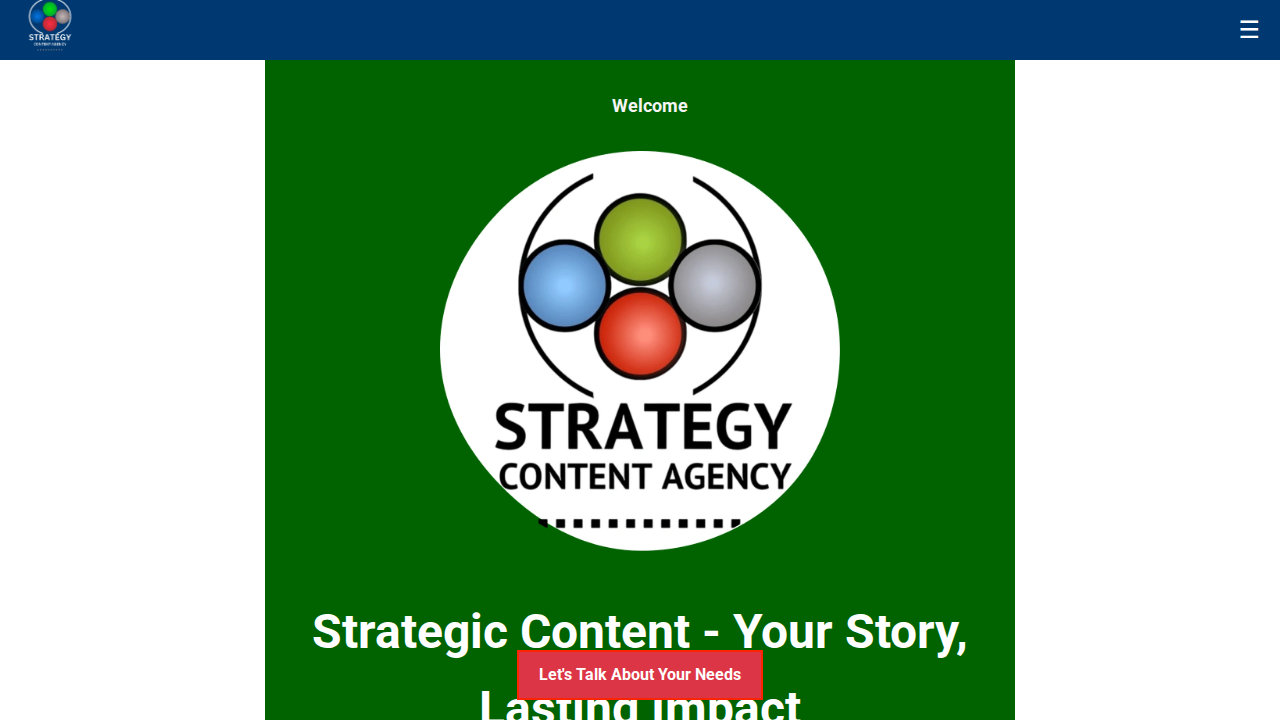
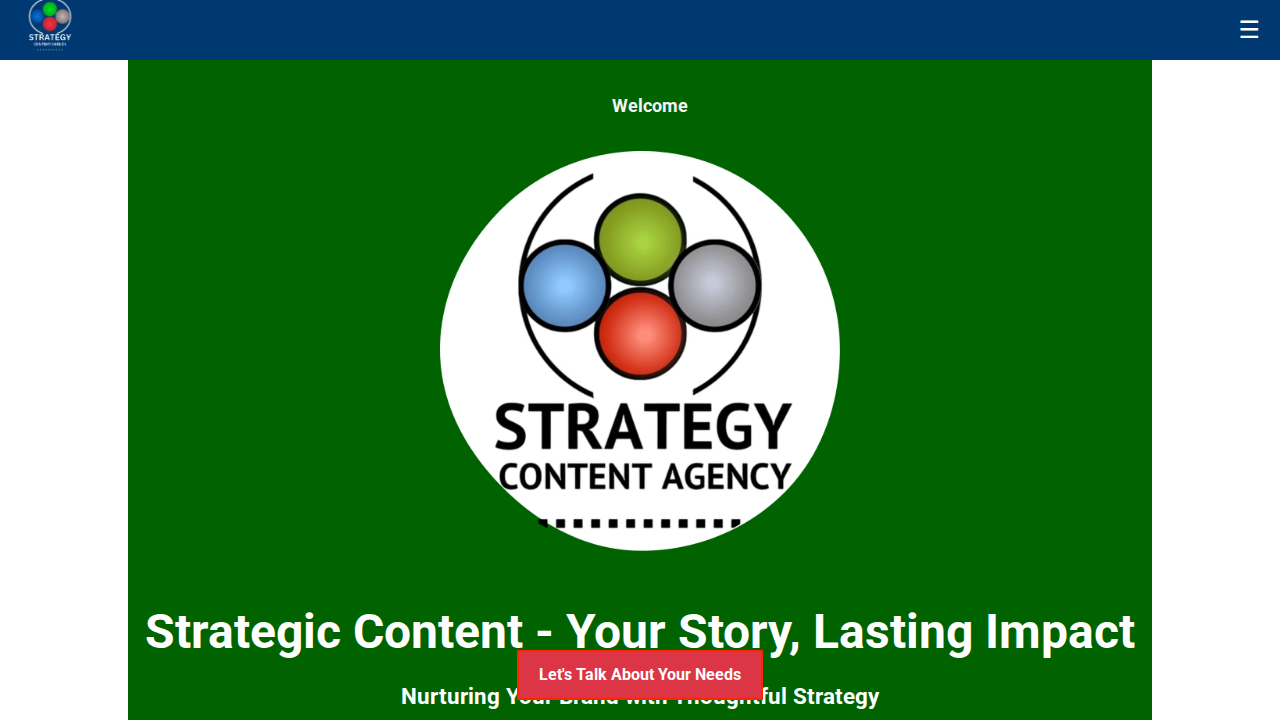
Adjust hero section width to match container width
This commit adjusts the width of the hero section to match the width of the other containers on the page, as requested by the user.

Changed region(s): [[0.0938, 0.0611, 0.9062, 1.0], [0.3125, 0.9472, 0.6875, 1.0]]

diff --git a/css/style.css b/css/style.css
@@ -306,8 +306,8 @@ h1, h2, h3 {
 }
 
 .hero-section {
-  width: 100%; 
-  max-width: 750px;
+  width: var(--container-width);
+  max-width: var(--container-max-width);
   margin: 0 auto;
 }
 
